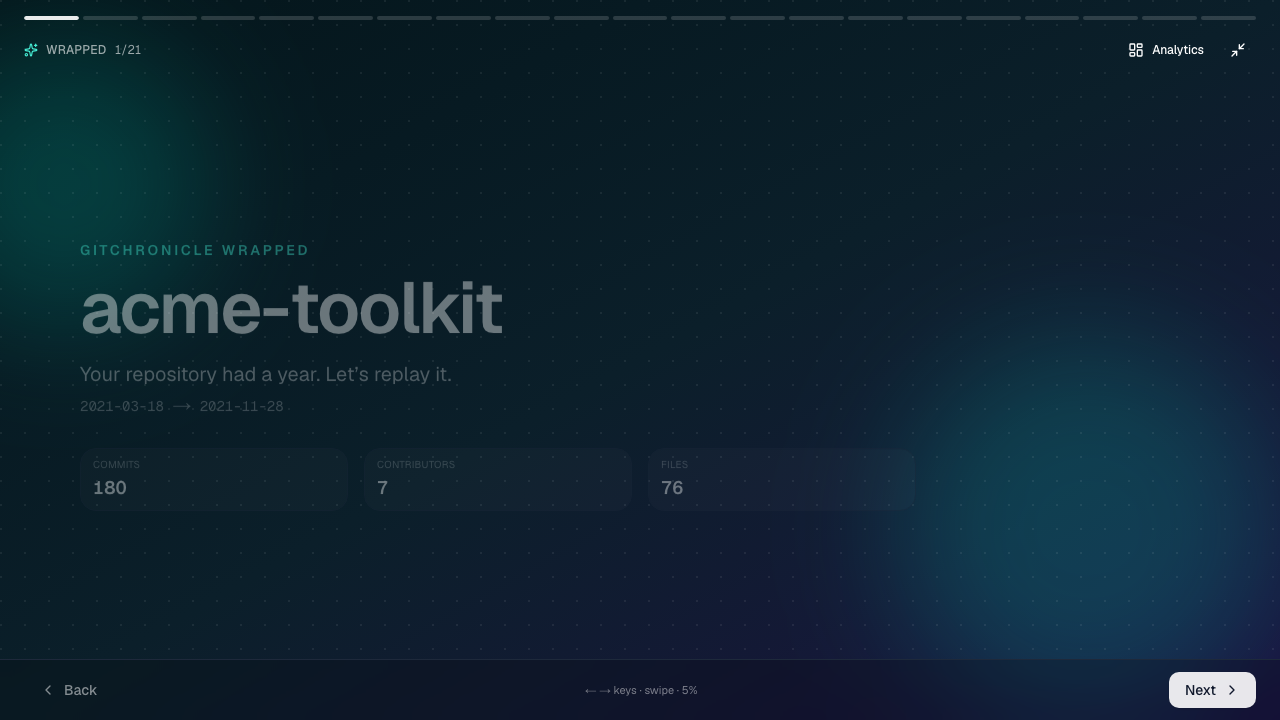
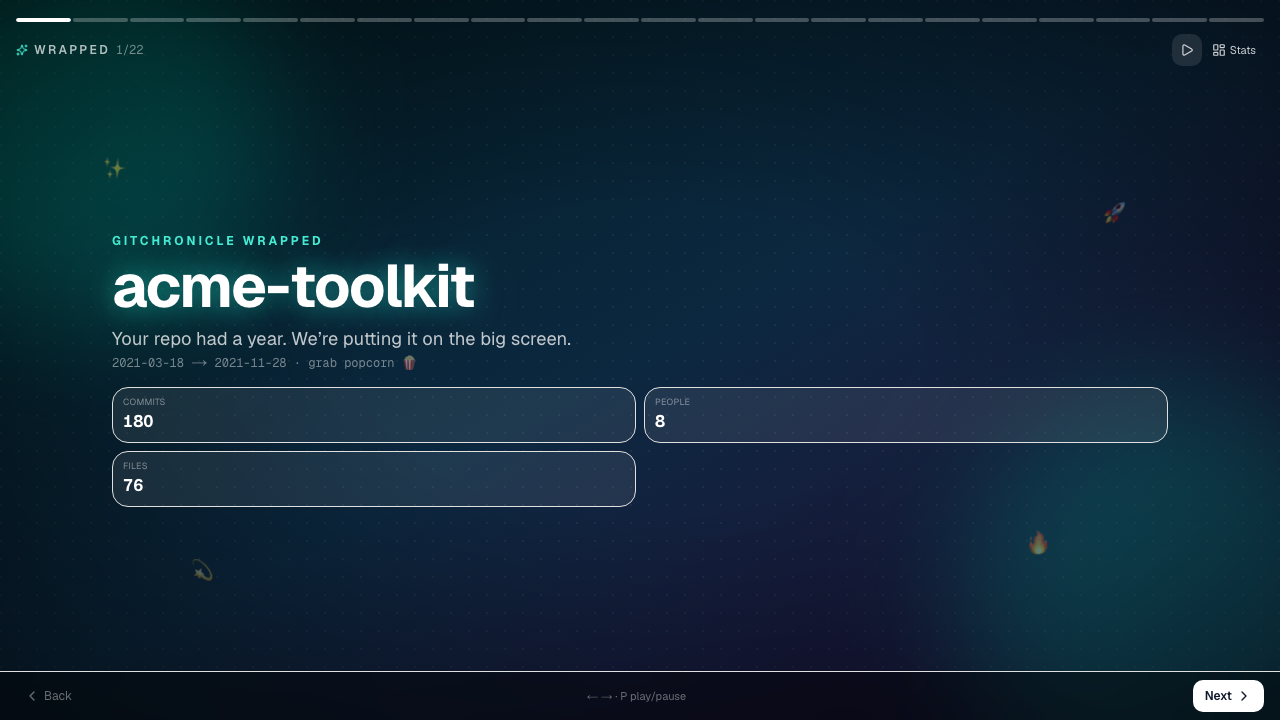
docs: refresh marketing screenshots and fix Wrapped title shine
Add pnpm screenshots capture script (light theme, production server),
regenerate docs/screenshots after Spotify rebrand, point README at
wrapped-open, and replace background-clip title shine with solid white
plus green glow so scene titles stay visible under transforms.

diff --git a/scripts/capture-screenshots.ts b/scripts/capture-screenshots.ts
@@ -1,0 +1,138 @@
+/**
+ * Capture marketing screenshots into docs/screenshots/ against a running app.
+ *
+ * Usage:
+ *   pnpm seed && pnpm build && PORT=3000 pnpm start &
+ *   pnpm screenshots
+ *
+ * Or with an existing server:
+ *   PLAYWRIGHT_BASE_URL=http://127.0.0.1:3000 pnpm screenshots
+ */
+import { chromium, type Page } from "@playwright/test";
+import fs from "node:fs";
+import path from "node:path";
+
+const baseURL = process.env.PLAYWRIGHT_BASE_URL ?? "http://127.0.0.1:3000";
+const outDir = path.join(process.cwd(), "docs", "screenshots");
+const slug = "acme-toolkit";
+
+async function waitReady(page: Page) {
+  await page.goto(`${baseURL}/api/health`, { waitUntil: "networkidle" });
+  const ok = await page.evaluate(async (url) => {
+    const res = await fetch(url);
+    return res.ok;
+  }, `${baseURL}/api/health`);
+  if (!ok) throw new Error(`Health check failed at ${baseURL}`);
+}
+
+async function shot(
+  page: Page,
+  name: string,
+  opts: { fullPage?: boolean } = {}
+) {
+  const file = path.join(outDir, name);
+  await page.screenshot({
+    path: file,
+    fullPage: opts.fullPage ?? false,
+    type: "png",
+  });
+  const size = fs.statSync(file).size;
+  console.log(`  wrote ${name} (${Math.round(size / 1024)} KB)`);
+}
+
+async function main() {
+  fs.mkdirSync(outDir, { recursive: true });
+  console.log(`Capturing screenshots from ${baseURL} → ${outDir}`);
+
+  const browser = await chromium.launch({ headless: true });
+  const context = await browser.newContext({
+    viewport: { width: 1280, height: 720 },
+    deviceScaleFactor: 1,
+    colorScheme: "light",
+  });
+  // Product default is light; force storage so capture is deterministic
+  await context.addInitScript(() => {
+    try {
+      localStorage.setItem("gitchronicle-theme", "light");
+    } catch {
+      /* ignore */
+    }
+  });
+
+  const page = await context.newPage();
+  await waitReady(page);
+
+  // Landing
+  await page.goto(`${baseURL}/`, { waitUntil: "networkidle" });
+  await page.getByRole("heading", { level: 1 }).waitFor();
+  await shot(page, "landing.png", { fullPage: true });
+
+  // Wrapped open
+  await page.goto(`${baseURL}/repo/${slug}/wrapped`, {
+    waitUntil: "networkidle",
+  });
+  await page.getByTestId("wrapped-player").waitFor({ timeout: 15_000 });
+  await page.getByTestId("wrapped-counter").waitFor();
+  // Pause autoplay so frames are stable
+  const auto = page.getByTestId("wrapped-autoplay");
+  if (await auto.count()) {
+    const state = await page.getByTestId("wrapped-player").getAttribute("data-autoplay");
+    if (state === "on") await auto.click();
+  }
+  await page.waitForTimeout(400);
+  await shot(page, "wrapped.png");
+  await shot(page, "wrapped-open.png");
+
+  // Advance a couple scenes for variety
+  await page.getByTestId("wrapped-player").focus();
+  await page.keyboard.press("ArrowRight");
+  await page.waitForTimeout(350);
+  await page.keyboard.press("ArrowRight");
+  await page.waitForTimeout(350);
+  await shot(page, "wrapped-next.png");
+
+  // Dashboard sections
+  const sections: { path: string; file: string; heading?: RegExp }[] = [
+    { path: `/repo/${slug}`, file: "overview.png", heading: /Overview/i },
+    {
+      path: `/repo/${slug}/timemachine`,
+      file: "time-machine.png",
+      heading: /Time Machine/i,
+    },
+    { path: `/repo/${slug}/hotspots`, file: "hotspots.png", heading: /Hotspots/i },
+    { path: `/repo/${slug}/people`, file: "people.png", heading: /People/i },
+    {
+      path: `/repo/${slug}/evolution`,
+      file: "evolution.png",
+      heading: /Evolution/i,
+    },
+    { path: `/repo/${slug}/graphs`, file: "graphs.png", heading: /Graphs/i },
+    {
+      path: `/repo/${slug}/releases`,
+      file: "releases.png",
+      heading: /Releases/i,
+    },
+    { path: `/repo/${slug}/story`, file: "story.png", heading: /Story/i },
+  ];
+
+  for (const s of sections) {
+    await page.goto(`${baseURL}${s.path}`, { waitUntil: "networkidle" });
+    if (s.heading) {
+      await page.getByRole("heading", { name: s.heading }).first().waitFor({
+        timeout: 10_000,
+      });
+    }
+    await page.waitForTimeout(250);
+    await shot(page, s.file, {
+      fullPage: s.file === "overview.png" || s.file === "landing.png",
+    });
+  }
+
+  await browser.close();
+  console.log("Done.");
+}
+
+main().catch((err) => {
+  console.error(err);
+  process.exit(1);
+});

diff --git a/src/app/globals.css b/src/app/globals.css
@@ -256,15 +256,6 @@ body {
   }
 }
 
-@keyframes gc-shine {
-  0% {
-    background-position: 0% 50%;
-  }
-  100% {
-    background-position: 200% 50%;
-  }
-}
-
 @keyframes gc-bar-grow {
   from {
     transform: scaleX(0);
@@ -375,20 +366,13 @@ body {
   animation: gc-orb-drift-2 14s ease-in-out infinite;
 }
 
+/* Solid white + green glow — avoid background-clip:text (breaks under transforms
+   and some Chromium screenshot paths, leaving titles invisible). */
 .gc-title-shine {
-  background: linear-gradient(
-    105deg,
-    #fff 0%,
-    #fff 38%,
-    color-mix(in oklab, var(--shine, #1ed760) 90%, #fff) 50%,
-    #fff 62%,
-    #fff 100%
-  );
-  background-size: 200% auto;
-  -webkit-background-clip: text;
-  background-clip: text;
-  color: transparent;
-  animation: gc-shine 3.2s linear infinite;
+  color: #ffffff;
+  text-shadow:
+    0 0 28px color-mix(in oklab, var(--shine, #1ed760) 55%, transparent),
+    0 0 60px color-mix(in oklab, var(--shine, #1ed760) 25%, transparent);
 }
 
 .gc-bar-grow {
@@ -432,9 +416,6 @@ body {
     transform: scaleX(1);
   }
   .gc-title-shine {
-    color: inherit;
-    background: none;
-    -webkit-background-clip: unset;
-    background-clip: unset;
+    text-shadow: none;
   }
 }

diff --git a/PROGRESS.md b/PROGRESS.md
@@ -69,8 +69,14 @@ Primary experience is a cinematic, adaptive multi-scene Wrapped story from real 
 - Optional dark theme still available via toggle (storage key `gitchronicle-theme`)
 - Demo projects reject retry (re-seed with `pnpm seed`); GitHub failed jobs re-clone after cleanup
 
+## Marketing screenshots (2026-08-03)
+- [x] `pnpm screenshots` → `scripts/capture-screenshots.ts` (Playwright, light theme forced)
+- [x] Regenerated all `docs/screenshots/*` post Spotify rebrand + rising-star (22 scenes)
+- [x] README badge green `#1DB954`; Wrapped image points at `wrapped-open.png`
+- [x] Fixed Wrapped title visibility: `gc-title-shine` no longer uses `background-clip:text` (was invisible under transforms / Chromium capture)
+
 ## Suggested next (priority)
-1. Refresh `docs/screenshots/` after Spotify rebrand + rising-star (landing + wrapped-open + overview)
-2. Light-theme dashboard chart contrast pass
-3. Stale `running` job recovery (worker crash → mark failed after TTL)
-4. Performance pass on very large local repos (caps already exist — measure)
+1. Light-theme dashboard chart contrast pass (axis labels / tooltip on near-white)
+2. Stale `running` job recovery (worker crash → mark failed after TTL)
+3. Performance pass on very large local repos (caps already exist — measure)
+4. Landing “recent repos” dedupe / cleanup of accidental re-imports

diff --git a/README.md b/README.md
@@ -4,7 +4,7 @@
 
 GitChronicle turns a Git repository into a cinematic, shareable recap — then a deep engineering-intelligence dashboard. Import a public GitHub URL, analyze a local repo, or open the bundled demo.
 
-![GitChronicle](https://img.shields.io/badge/stack-Next.js%20%7C%20SQLite%20%7C%20Vitest-0d9488) ![license](https://img.shields.io/badge/license-MIT-blue)
+![GitChronicle](https://img.shields.io/badge/stack-Next.js%20%7C%20SQLite%20%7C%20Vitest-1DB954) ![license](https://img.shields.io/badge/license-MIT-blue)
 
 ![Landing](./docs/screenshots/landing.png)
 
@@ -20,7 +20,9 @@ GitChronicle turns a Git repository into a cinematic, shareable recap — then a
 - **Releases** — tags + Markdown notes
 - **Exports** — PNG social cards + Markdown repository report
 
-![Wrapped](./docs/screenshots/overview.png)
+![Wrapped](./docs/screenshots/wrapped-open.png)
+
+![Overview](./docs/screenshots/overview.png)
 
 ## Sixty-second local setup
 
@@ -90,6 +92,7 @@ See `src/lib/wrapped/personality.ts` and [FINAL_AUDIT.md](./FINAL_AUDIT.md). Exa
 | `pnpm db:migrate` / `seed` | DB + demo |
 | `pnpm analyze -- <path>` | Local analyze |
 | `pnpm worker` / `cleanup` | Jobs + cleanup |
+| `pnpm screenshots` | Refresh `docs/screenshots/` (server on :3000) |
 
 ## Contributing
 

diff --git a/DECISIONS.md b/DECISIONS.md
@@ -60,6 +60,11 @@
 - Share cards use browser canvas PNG export (no extra deps); closing scene hosts downloads.
 - Demo and import completion routes land on `/repo/<slug>/wrapped` first; analytics remain one click away.
 
+## Marketing screenshots
+- Capture script: `scripts/capture-screenshots.ts` (`pnpm screenshots`) against production `next start` on `:3000`.
+- Forces light theme via `localStorage gitchronicle-theme` + `colorScheme: "light"`.
+- Wrapped titles use solid white + green glow (not `background-clip: text`) so they stay visible under CSS transforms and in PNG captures.
+
 ## Analysis retry
 - `POST /api/repos/[slug]/retry` enqueues a new job; never reuses a failed row as running without a clean pending insert.
 - Decision tree is pure (`planRetryJob`): failed GitHub → `clone_and_analyze`; ready GitHub with `localPath` → `reanalyze`; local → `analyze_local`; demo → 400 (seed offline JSON).

diff --git a/FINAL_AUDIT.md b/FINAL_AUDIT.md
@@ -92,4 +92,5 @@ Captured under `docs/screenshots/` and e2e `test-results` / session scratch `sho
 - Light-theme-specific Wrapped *scene* palettes (player is intentionally dark cinematic; shell is light-first with green brand as of 2026-08-03)  
 - Per-commit author split histograms for even richer rising-star curves (current pure picker uses first/last + density)  
 - Multi-forge imports beyond public HTTPS GitHub  
-- Fresh marketing screenshots after Spotify-adjacent rebrand  
+- (done) Fresh marketing screenshots via `pnpm screenshots` after Spotify-adjacent rebrand  
+ 

diff --git a/CONTRIBUTING.md b/CONTRIBUTING.md
@@ -44,6 +44,16 @@ pnpm build
 
 Optional: `pnpm test:e2e` (requires Playwright browsers).
 
+### Marketing screenshots
+
+With a production server on port 3000 (`pnpm seed && pnpm build && PORT=3000 pnpm start`):
+
+```bash
+pnpm screenshots
+```
+
+Writes light-theme captures to `docs/screenshots/` (landing, Wrapped, dashboard sections).
+
 ## Commit style
 
 - Use clear, descriptive commit messages.
